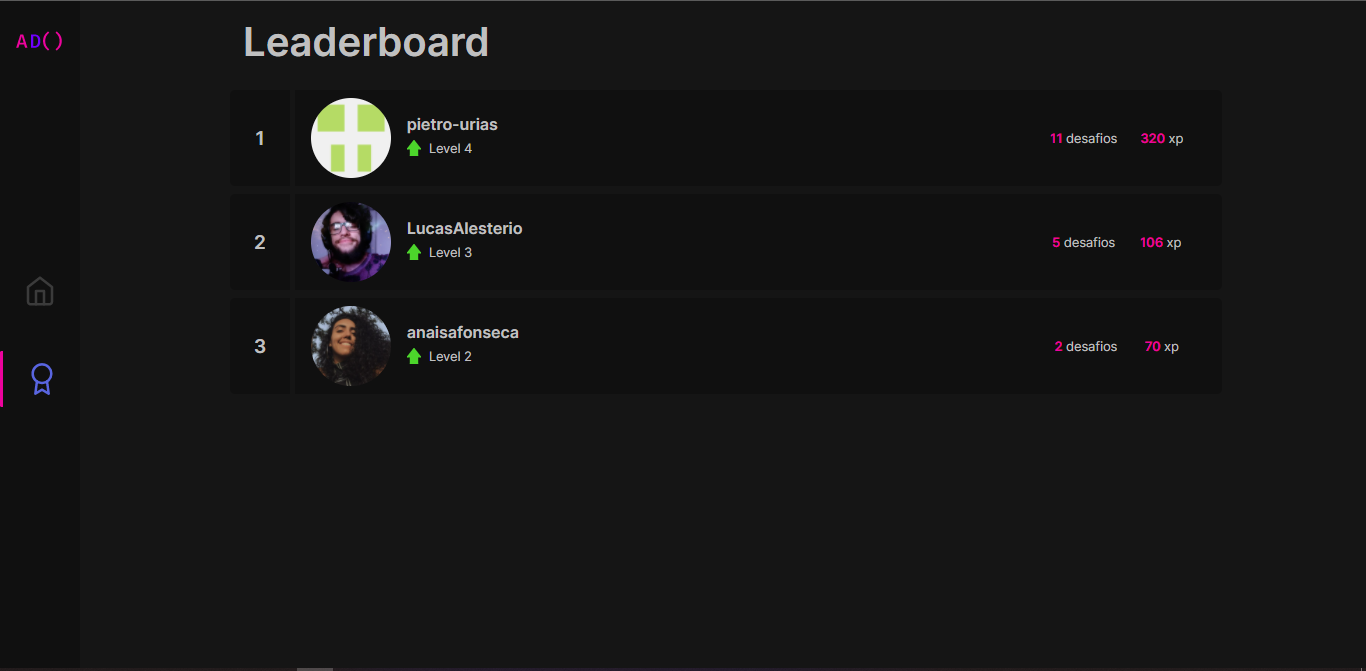
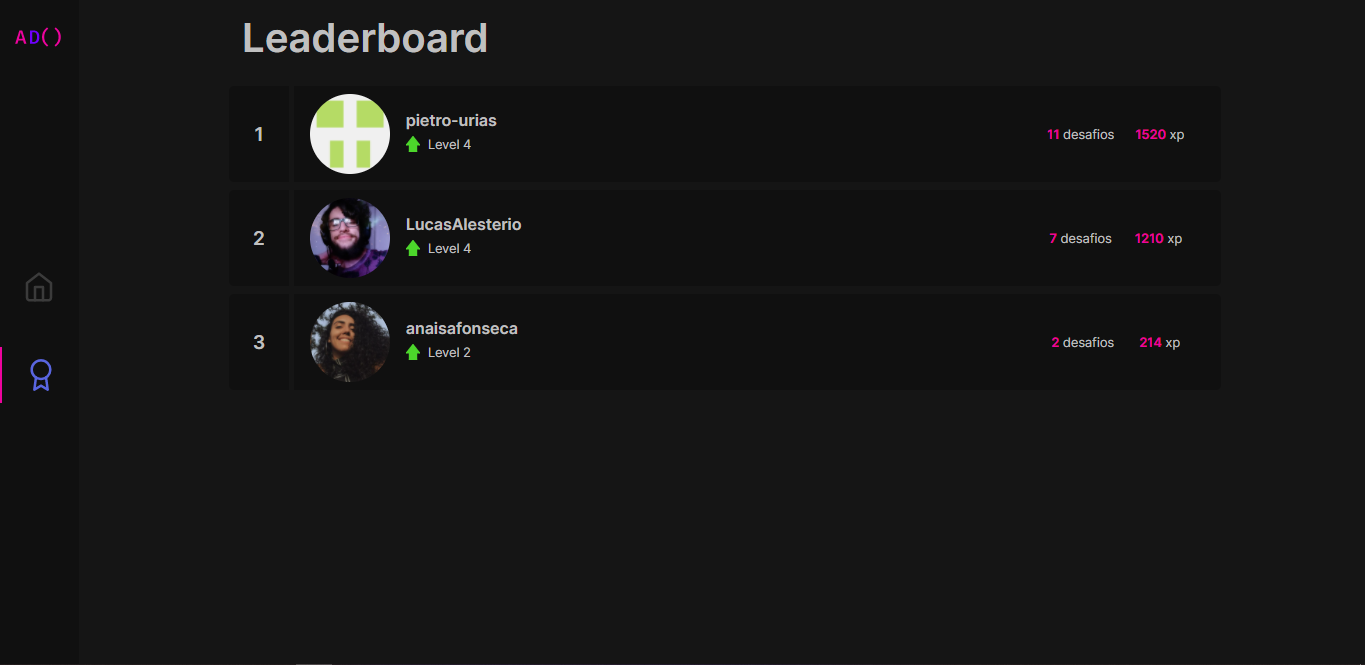
Fixed total experience

diff --git a/src/contexts/ChallengesContext.tsx b/src/contexts/ChallengesContext.tsx
@@ -41,6 +41,7 @@ interface UserRegistered{
     level: number;
     challengesCompleted: number;
     currentExperience: number;
+    totalExp: number;
 }
 
 interface ChallengesProviderProps{
@@ -116,6 +117,14 @@ export function ChallengesProvider({ children}: ChallengesProviderProps){
             return result * sortOrder;
         }
     }
+    function calcTotalExp(level, xp){
+        let totalExp = 0;
+        for(let lvl = 1; lvl < level; lvl++){
+            totalExp += Math.pow(((level + 1) * 4), 2 );
+        }
+        totalExp += xp;
+        return totalExp;
+    }
     useEffect(()=>{
         if(followers.length > 0
             && allUsers.length > 0
@@ -126,6 +135,7 @@ export function ChallengesProvider({ children}: ChallengesProviderProps){
                 let thisUser = (allUsers.find((user) => user.user === follow.login)) ;
                 if(thisUser){
                     thisUser.photo = follow.avatar_url;
+                    thisUser.totalExp = calcTotalExp(thisUser.level, thisUser.currentExperience);
                 }
                 return thisUser;
             })
@@ -137,8 +147,11 @@ export function ChallengesProvider({ children}: ChallengesProviderProps){
                 currentExperience:currentExperience,
                 level: level,
                 photo: dataUser.data.avatar_url,
+                totalExp: calcTotalExp(level, currentExperience)
+
             })
-            awards = awards.sort(dynamicSort("currentExperience"));
+            awards = awards.sort(dynamicSort("totalExp"));
+            console.log(awards);
             setUsersRegistered(awards);
         } 
     },[followers,allUsers,dataUser])

diff --git a/src/pages/home.tsx b/src/pages/home.tsx
@@ -44,16 +44,6 @@ export default function Home(){
     <div className={stylesAwards.container}>
       <section>
           <h1>Leaderboard</h1>
-          {/* <div className={stylesAwards.labels}>
-              <div>
-                  <h4 className={stylesAwards.position}>POSIÇÃO</h4>
-                  <h4 className={stylesAwards.user}>USUÁRIO</h4>
-              </div>
-              <div>
-                  <h4 className={stylesAwards.challenges}>DESAFIOS</h4>
-                  <h4 className={stylesAwards.xp}>EXPERIÊNCIA</h4>
-              </div>
-          </div> */}
           <ListCards />
       </section>
   </div>

diff --git a/src/components/ListCards.tsx b/src/components/ListCards.tsx
@@ -16,7 +16,7 @@ export function ListCards(){
                     name={user.user}
                     level={user.level}
                     challenges={user.challengesCompleted}
-                    xp={user.currentExperience}
+                    xp={user.totalExp}
                     />
                 ))
                 : null

diff --git a/src/styles/pages/Landing.module.css b/src/styles/pages/Landing.module.css
@@ -32,7 +32,7 @@
     background-color: var(--text);
     width: 1.5rem;
     height: 6rem;
-    animation: cursorAnimation 1s ease-in-out infinite;
+    animation: cursorAnimation 0.7s ease-in-out infinite;
 }
 .container .await, .container .dev, .container .bracket{
     font-family: 'Fira Code', monospace;
